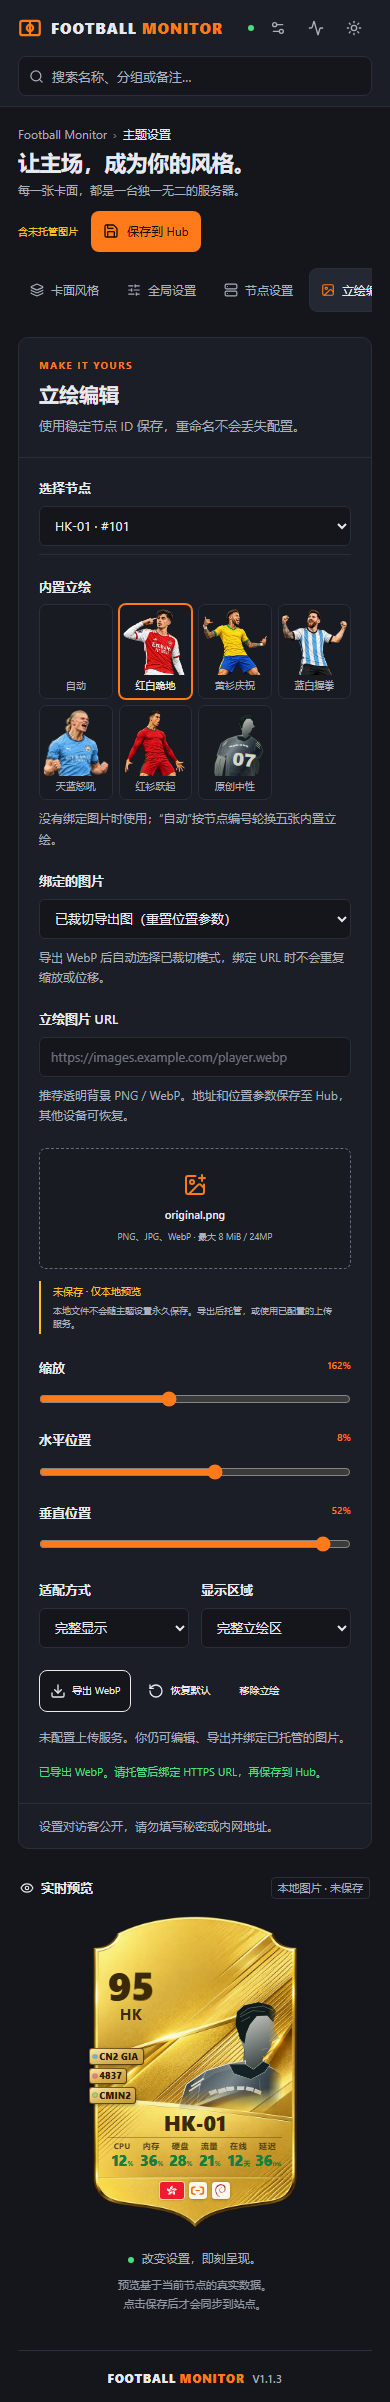
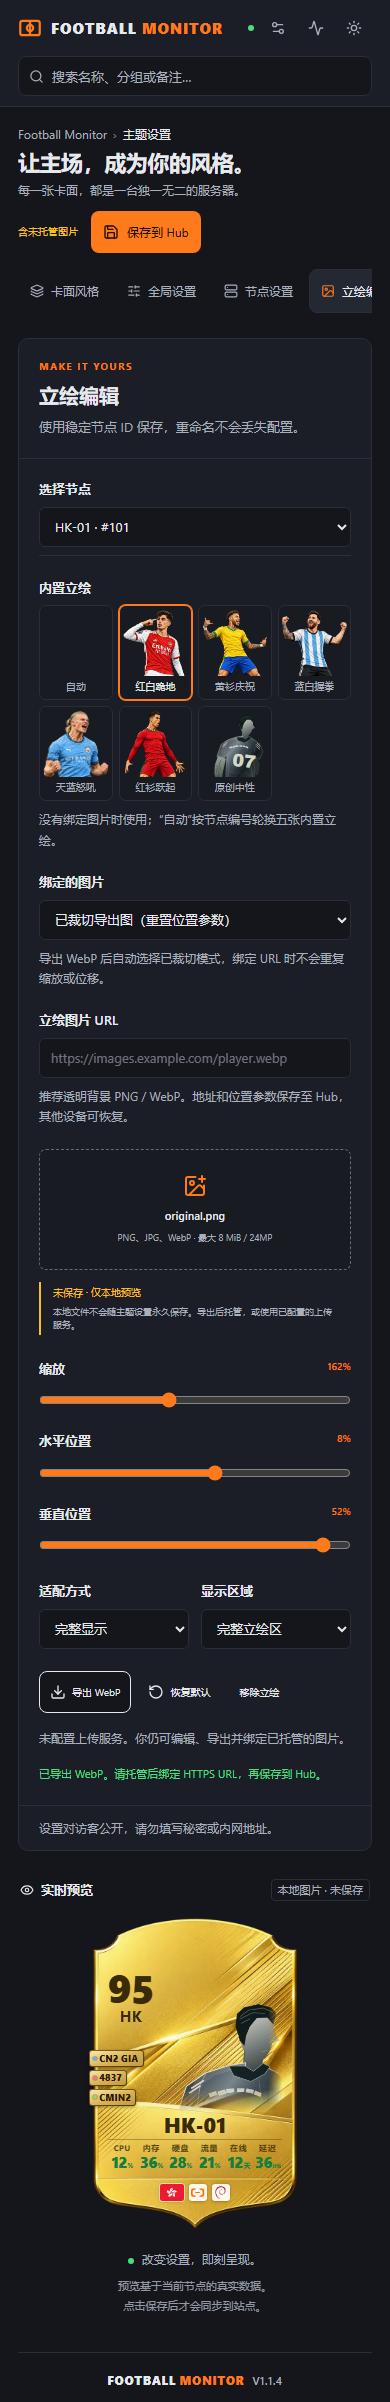
Football Monitor 1.1.4

diff --git a/docs/manual.md b/docs/manual.md
@@ -1,6 +1,6 @@
 # Football Monitor
 
-**你的服务器，你的主场。** 为极简探针 Monitor 构建的第三方足球球星卡主题。Vue 3 静态 SPA，当前版本 `1.1.3`。源码与发布：<https://github.com/NSJLUCAS/football-monitor>。
+**你的服务器，你的主场。** 为极简探针 Monitor 构建的第三方足球球星卡主题。Vue 3 静态 SPA，当前版本 `1.1.4`。源码与发布：<https://github.com/NSJLUCAS/football-monitor>。
 
 ![首页：本地模拟 API 的视觉验收](docs/screenshots/dashboard-1440.png)
 

diff --git a/CHANGELOG.md b/CHANGELOG.md
@@ -1,5 +1,15 @@
 # Changelog
 
+## 1.1.4 · 2026-11-03 · 网络质量页
+
+### Added
+
+- 新增“网络质量”页（`/network`）：每台节点一行，显示走势、综合、三网、最近丢包与抖动，可切换时段、分组、排序与隐藏离线。
+
+### Changed
+
+- 首页排序记在地址里；详情页标签标题显示节点名；768px 以下顶栏搜索换到第二行。
+
 ## 1.1.3 · 2026-11-02 · 三网说明改版
 
 ### Changed

diff --git a/README.md b/README.md
@@ -2,7 +2,7 @@
 
 为极简探针 Monitor 打造的足球球星卡主题：每台服务器都是一名球员，**你的服务器，你的主场**。
 
-由 [NSJLUCAS](https://github.com/NSJLUCAS) 维护，当前版本 `1.1.3`。
+由 [NSJLUCAS](https://github.com/NSJLUCAS) 维护，当前版本 `1.1.4`。
 
 [![preview](preview.png)](preview.png)
 
